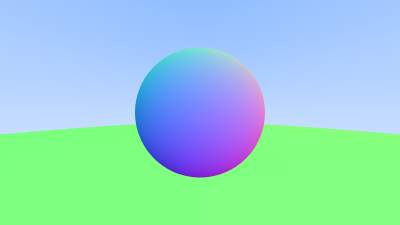
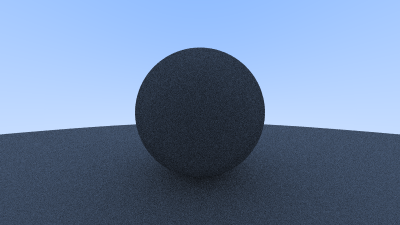
Basic diffuse sphere

diff --git a/vec3.h b/vec3.h
@@ -41,6 +41,14 @@ public:
     double length_squared() const {
         return e[0] * e[0] + e[1] * e[1] + e[2] * e[2];
     }
+
+    static vec3 random() {
+        return vec3(random_double(), random_double(), random_double());
+    }
+
+    static vec3 random(double min, double max) {
+        return vec3(random_double(min, max), random_double(min, max), random_double(min, max));
+    }
 };
 
 // point3 is just an alias for vec3, but useful for geometric clarity in the code.
@@ -91,6 +99,26 @@ inline vec3 cross(const vec3& u, const vec3& v) {
 
 inline vec3 unit_vector(const vec3& v) {
     return v / v.length();
+}
+
+inline vec3 random_in_unit_sphere() {
+    while (true) {
+        auto p = vec3::random(-1, 1);
+        if (p.length_squared() < 1)
+            return p;
+    }
+}
+
+inline vec3 random_unit_vector() {
+    return unit_vector(random_in_unit_sphere());
+}
+
+inline vec3 random_on_hemisphere(const vec3& normal) {
+    vec3 on_unit_sphere = random_unit_vector();
+    if (dot(on_unit_sphere, normal) > 0.0) // In the same hemisphere as the normal
+        return on_unit_sphere;
+    else
+        return -on_unit_sphere;
 }
 
 #endif

diff --git a/camera.h b/camera.h
@@ -106,7 +106,8 @@ private:
 		hit_record rec;
 
 		if (world.hit(r, interval(0, infinity), rec)) {
-			return 0.5 * (rec.normal + color(1, 1, 1));
+			vec3 direction = random_on_hemisphere(rec.normal);
+			return 0.5 * ray_color(ray(rec.p, direction), world);
 		}
 
 		vec3 unit_direction = unit_vector(r.direction());
